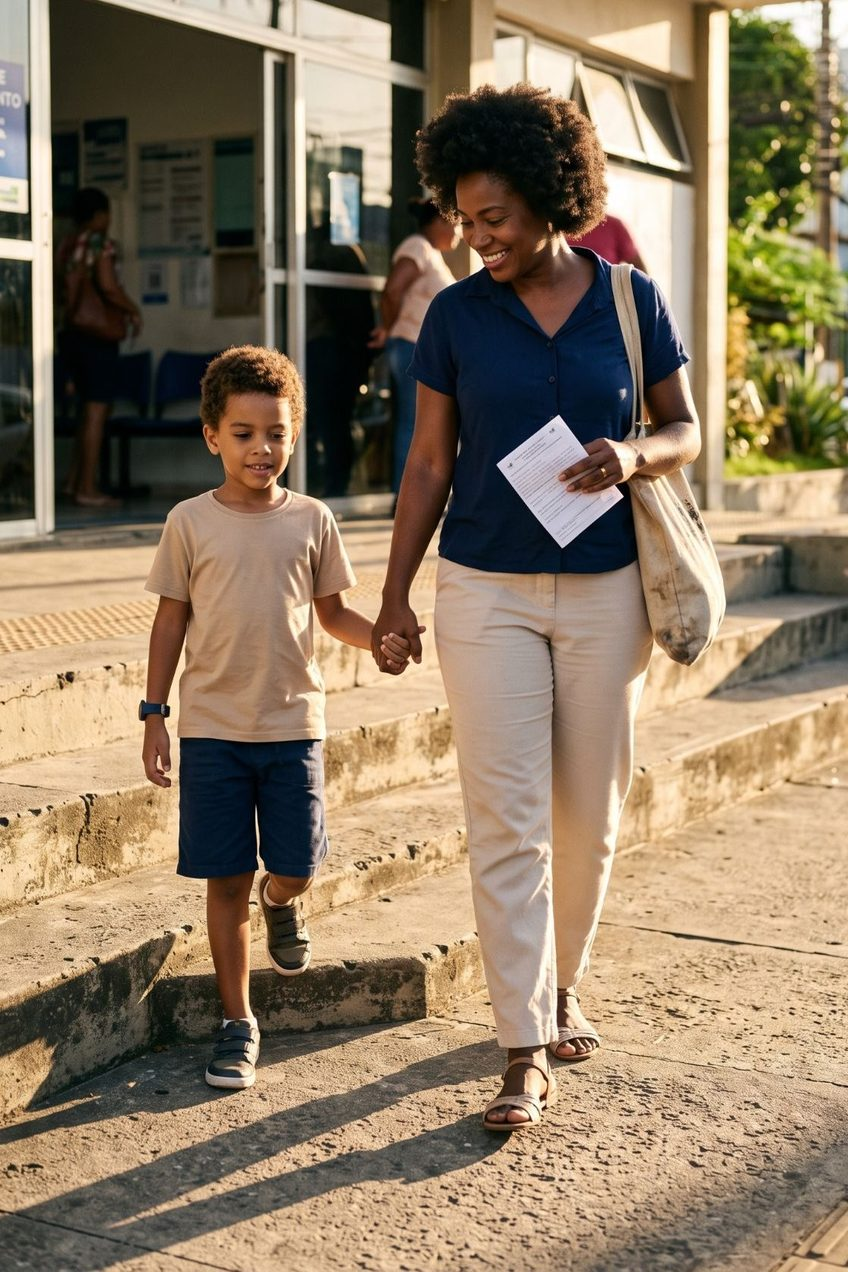
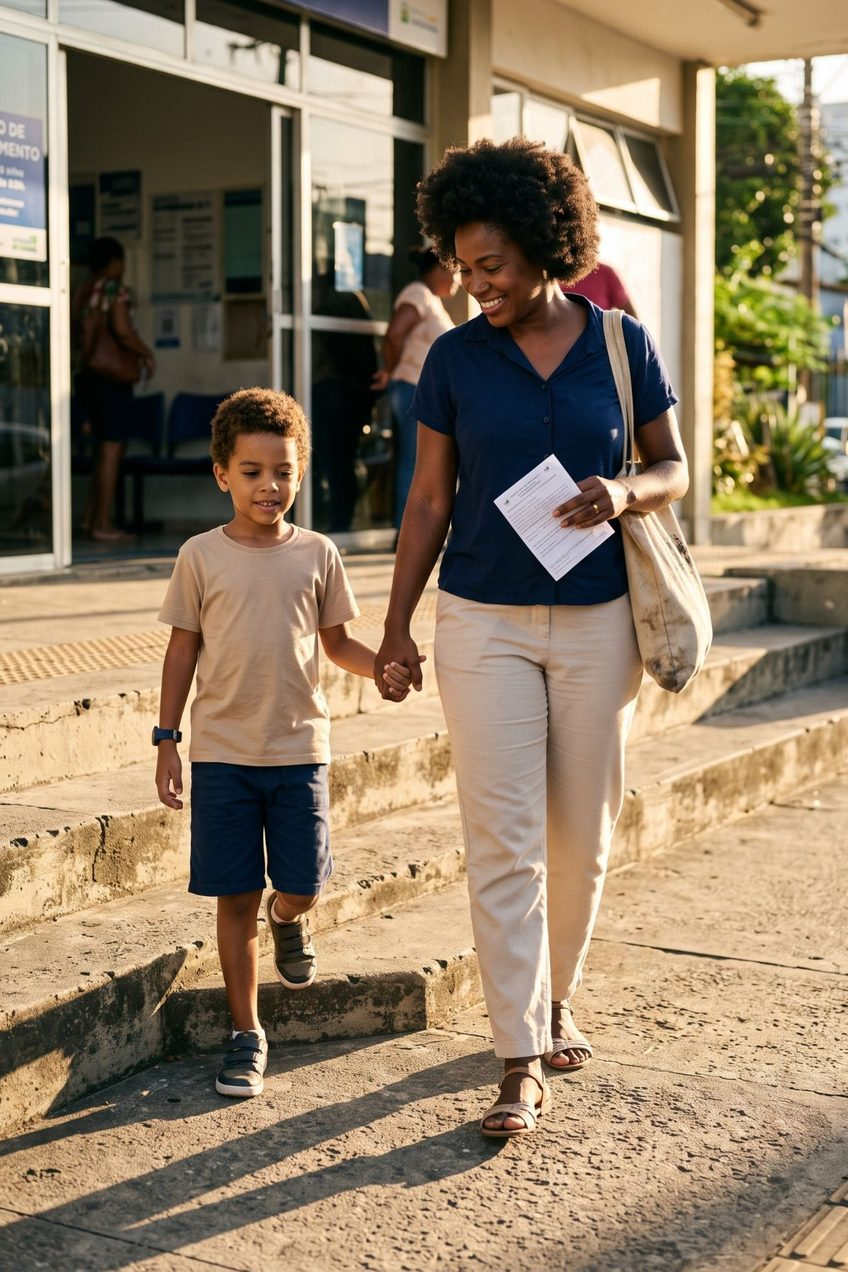
Mais respiro no topo da foto da mãe e filho (pilar 4)
O Caio achou que a borda superior estava quase cortando o cabelo dela.
Recorte original (2.jpg) cortava 320px do topo pra tirar a placa "USF
Barra · SUS · Ministério da Saúde" do quadro; reduzido pra 240px, quase
dobrando a margem acima do cabelo. A placa do SUS continua totalmente
fora — só sobra um resquício ilegível de uma placa diferente e sem
identificação de instituição nenhuma (tipo aviso de horário).

Mobile (caixa 16:10, a mais apertada) precisou do mesmo ajuste:
object-position de 20% para 15% do topo. Desktop (destaque e miniatura
da régua) conferido sem precisar de ajuste.

Versão anterior guardada em card-4-recorte-16pct-anterior.jpeg, não
apagada.

diff --git a/index.html b/index.html
@@ -560,7 +560,7 @@ placeholder="Pesquise o que você está sentindo, ex.: dor de cabeça"/>
 </div>
 </article>
 <article class="pilar-m">
-<div class="pilar-m__foto"><img src="assets/img/pilares/card-4.jpeg" alt="Uma mãe caminha de mãos dadas com o filho na saída de uma unidade de saúde" loading="lazy" style="object-position:50% 20%"/></div>
+<div class="pilar-m__foto"><img src="assets/img/pilares/card-4.jpeg" alt="Uma mãe caminha de mãos dadas com o filho na saída de uma unidade de saúde" loading="lazy" style="object-position:50% 15%"/></div>
 <div class="pilar-m__corpo">
 <span class="pilar-m__n">04</span>
 <h3 class="pilar-m__t">Resolver sem precisar de outro médico</h3>
